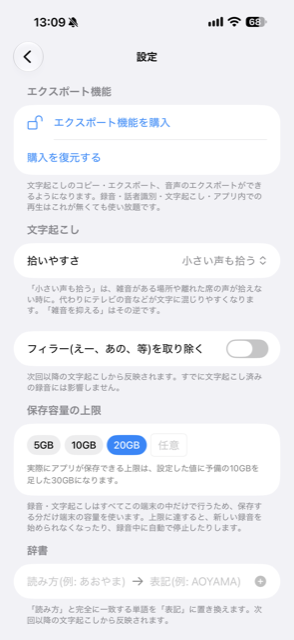
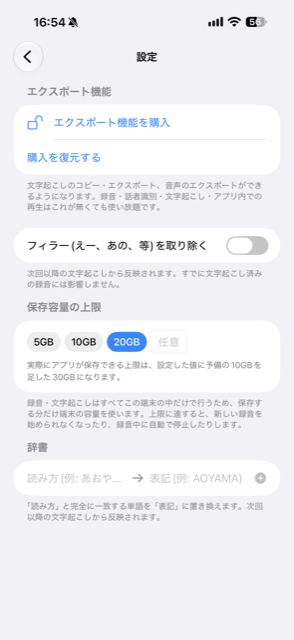
App Storeスクリーンショットを、レビュー修正後の実機画面に差し替え
旧スクショには次の問題があり、それを解消した新しい4枚に入れ替えた:
- 録音画面に旧アプリ名「Voi」が写り込んでいた → 「少数会議」に修正済みの画面
- 設定画面に、動かない「拾いやすさ」欄が写っていた → 削除済みの画面
- 一覧の録音タイトルが架空のもので、アプリでは実際には付けられなかった
  → 今回追加した「名前を変更」機能で実際に付けた名前が並ぶ画面

diff --git a/index.html b/index.html
@@ -170,9 +170,9 @@
 
   <section id="screenshots" style="border-top:none; padding-top:0;">
     <div class="screens-scroll">
-      <img src="img/screens/3_recording.png" alt="録音中の画面" loading="lazy">
-      <img src="img/screens/1_transcript.png" alt="話者ごとの文字起こし画面" loading="lazy">
-      <img src="img/screens/2_list.png" alt="録音一覧の画面" loading="lazy">
+      <img src="img/screens/1_recording.png" alt="録音中の画面" loading="lazy">
+      <img src="img/screens/2_transcript.png" alt="話者ごとの文字起こし画面" loading="lazy">
+      <img src="img/screens/3_list.png" alt="録音一覧の画面" loading="lazy">
       <img src="img/screens/4_settings.png" alt="設定画面" loading="lazy">
     </div>
   </section>
